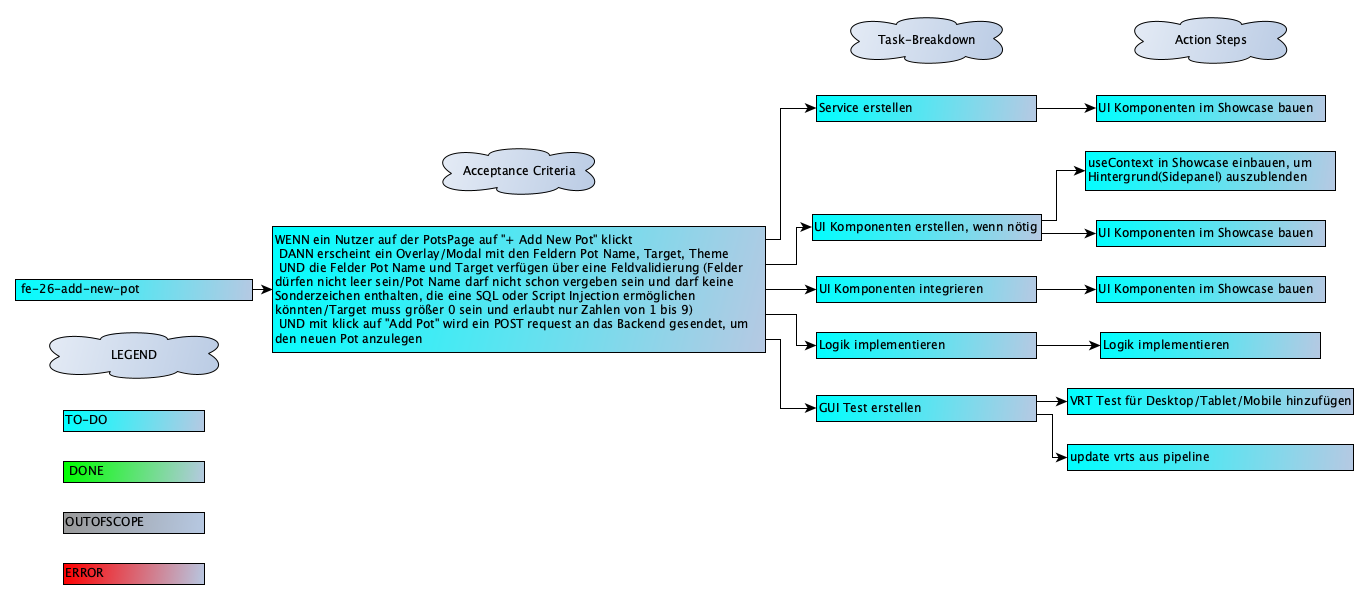
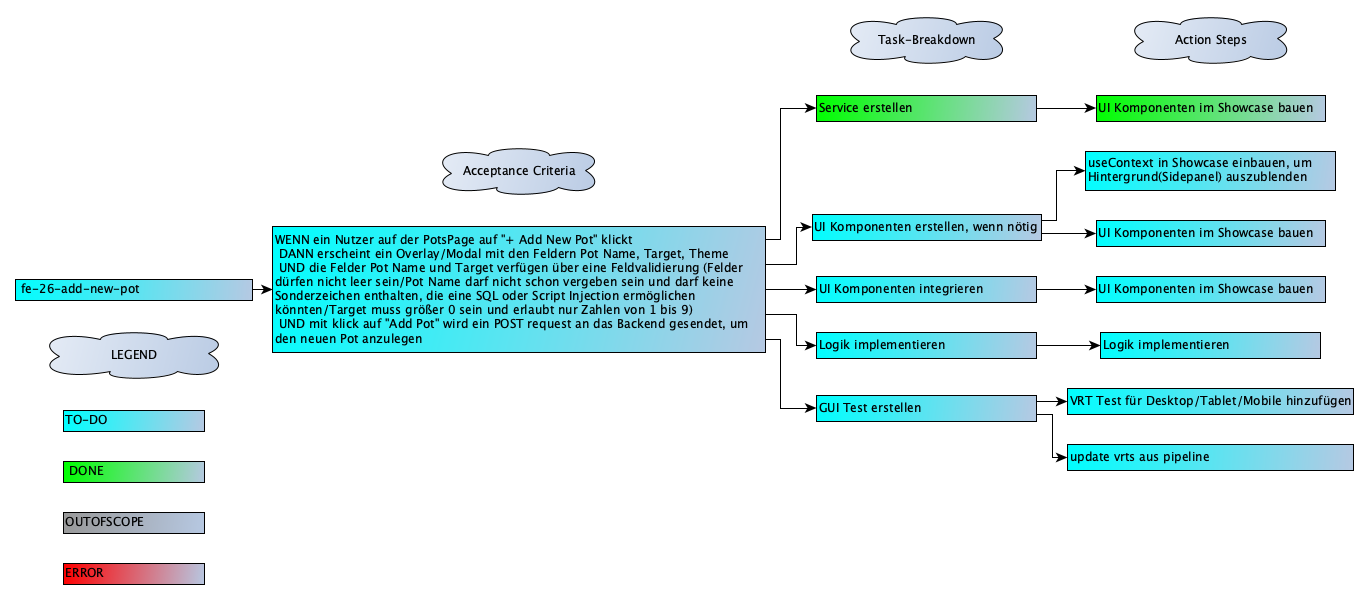
fe-26 add frontend service addNewPot

Changed region(s): [[0.5829, 0.1503, 0.767, 0.2104], [0.7977, 0.1503, 0.9511, 0.2104]]

diff --git a/frontend/src/globals/services/PotService.spec.ts b/frontend/src/globals/services/PotService.spec.ts
@@ -1,37 +1,71 @@
 import { ColorNameEnum } from '../../model/enum/ColorNameEnum';
 import { EPPot } from '../../model/entrypoints/EPPot';
-import { getPots } from './PotService';
+import { addNewPot, getPots } from './PotService';
 import axios from 'axios';
 import { mockedPotsDTO } from '../../fixtures/MockedPotsDTO';
 import { mockedPots2 } from '../../fixtures/MockedPots';
+import { fromColorNameToCode } from '../utils/FromColorNameToCode';
+import { ColorCodeEnum } from '../../model/enum/ColorCodeEnum';
+import { APIPotDTO } from '../../model/api/APIPotDTO';
+import { addNewBudget } from './BudgetService';
 
 jest.mock('axios');
 
-describe('PotService', () => {
+describe('PotService', (): void => {
   const firstEPPot: EPPot = {
     name: 'Savings',
     target: 2000,
     total: 159,
     color: ColorNameEnum.GREEN,
   };
+  const mappedFirstEPPot: APIPotDTO = {
+    name: 'Savings',
+    target: 2000,
+    total: 159,
+    theme: ColorCodeEnum.GREEN,
+  };
 
-  beforeEach(() => {
+  beforeEach((): void => {
     (axios.get as jest.Mock).mockResolvedValue({ data: mockedPotsDTO });
+    (axios.post as jest.Mock).mockResolvedValue(undefined);
   });
 
-  it('maps array APIPotDTO to array EPPot correctly', async () => {
-    const pots = await getPots();
+  it('maps array APIPotDTO to array EPPot correctly', async (): Promise<void> => {
+    const pots: EPPot[] = await getPots();
     expect(pots).toEqual(mockedPots2);
   });
 
-  it('returns fallback values if fetching pots fails', async () => {
-    const consoleErrorSpy = jest.spyOn(console, 'error').mockImplementation();
+  it('returns fallback values if fetching pots fails', async (): Promise<void> => {
+    const consoleErrorSpy: jest.SpyInstance = jest.spyOn(console, 'error').mockImplementation();
     (axios.get as jest.Mock).mockRejectedValue(new Error('Network Error'));
 
-    const pots = await getPots();
+    const pots: EPPot[] = await getPots();
 
     expect(consoleErrorSpy).toHaveBeenCalledWith(expect.stringContaining('Unable to fetch Pots:'));
     expect(pots).toHaveLength(5);
     expect(pots.at(0)).toEqual(firstEPPot);
+  });
+
+  it('sends a POST request to add a new Pot and resolves successfully', async (): Promise<void> => {
+    await addNewPot(firstEPPot);
+
+    expect(axios.post).toHaveBeenCalledWith(
+      'https://backend.philippkraatz.com/api/pots/addNewPot',
+      mappedFirstEPPot,
+      { headers: { 'Content-Type': 'application/json' } }
+    );
+  });
+
+  it('returns error if posting new pot fails', async () => {
+    const consoleErrorSpy: jest.SpyInstance = jest.spyOn(console, 'error').mockImplementation();
+    (axios.post as jest.Mock).mockRejectedValue(new Error('Service Unavailable'));
+
+    await addNewPot(firstEPPot);
+
+    expect(consoleErrorSpy).toHaveBeenCalledWith(
+      expect.stringContaining(
+        'Unable to add new Pot: Error: Service Unavailable; Service Unavailable'
+      )
+    );
   });
 });

diff --git a/frontend/src/globals/services/PotService.ts b/frontend/src/globals/services/PotService.ts
@@ -1,9 +1,12 @@
+// import { InternalServerErrorException, ServiceUnavailableException } from '@nestjs/common';
 import data from '../data.json';
 import { fromColorCodeToName } from '../utils/FromColorCodeToName';
 import { APIPotDTO } from '../../model/api/APIPotDTO';
 import { EPPot } from '../../model/entrypoints/EPPot';
 import axios, { AxiosResponse } from 'axios';
 import { AppConfig } from '../../config';
+import { fromColorNameToCode } from '../utils/FromColorNameToCode';
+import getErrorMessage from '../utils/getErrorMessage';
 
 export async function getPots(): Promise<EPPot[]> {
   const apiUrl = `${AppConfig.API_BACKEND_HOST}/pots`;
@@ -33,4 +36,29 @@ function fromAPIPotsDTOMapper(pots: APIPotDTO[]): EPPot[] {
     epPots.push(newPot);
   });
   return epPots;
+}
+
+export async function addNewPot(newPot: EPPot): Promise<void> {
+  const apiUrl: string = `${AppConfig.API_BACKEND_HOST}/pots/addNewPot`;
+
+  try {
+    const newPotDTO: APIPotDTO = fromEPPotMapper(newPot);
+
+    await axios.post<APIPotDTO>(apiUrl, newPotDTO, {
+      headers: {
+        'Content-Type': 'application/json',
+      },
+    });
+  } catch (error) {
+    console.error(`Unable to add new Pot: ${error}; ${getErrorMessage(error)}`);
+  }
+}
+
+function fromEPPotMapper(pot: EPPot): APIPotDTO {
+  return {
+    name: pot.name,
+    target: pot.target,
+    total: pot.total,
+    theme: fromColorNameToCode(pot.color),
+  };
 }

diff --git a/frontend/src/globals/utils/getErrorMessage.spec.ts b/frontend/src/globals/utils/getErrorMessage.spec.ts
@@ -1,0 +1,17 @@
+import getErrorMessage from './getErrorMessage';
+
+describe('getErrorMessage', () => {
+  it('returns the error message of the passed error', () => {
+    const errorMessage: string = 'original error message';
+
+    const result: string = getErrorMessage(new Error(errorMessage));
+
+    expect(result).toEqual(errorMessage);
+  });
+
+  it('returns default message passed Error does not have an error message', () => {
+    const result: string = getErrorMessage(undefined);
+
+    expect(result).toEqual('No further information available');
+  });
+});

diff --git a/frontend/src/globals/services/BudgetService.spec.ts b/frontend/src/globals/services/BudgetService.spec.ts
@@ -67,7 +67,7 @@ describe('BudgetService', () => {
   });
 
   it('returns error if posting new budget fails', async () => {
-    const consoleErrorSpy = jest.spyOn(console, 'error').mockImplementation();
+    const consoleErrorSpy: jest.SpyInstance = jest.spyOn(console, 'error').mockImplementation();
     (axios.post as jest.Mock).mockRejectedValue(new Error('Network Error'));
 
     await addNewBudget(firstEPBudget);

diff --git a/frontend/src/globals/utils/getErrorMessage.ts b/frontend/src/globals/utils/getErrorMessage.ts
@@ -1,0 +1,10 @@
+const getErrorMessage: <T>(error: T) => string = <T>(error: T): string => {
+  return error &&
+    typeof error === 'object' &&
+    'message' in error &&
+    typeof error.message === 'string'
+    ? error.message
+    : 'No further information available';
+};
+
+export default getErrorMessage;
